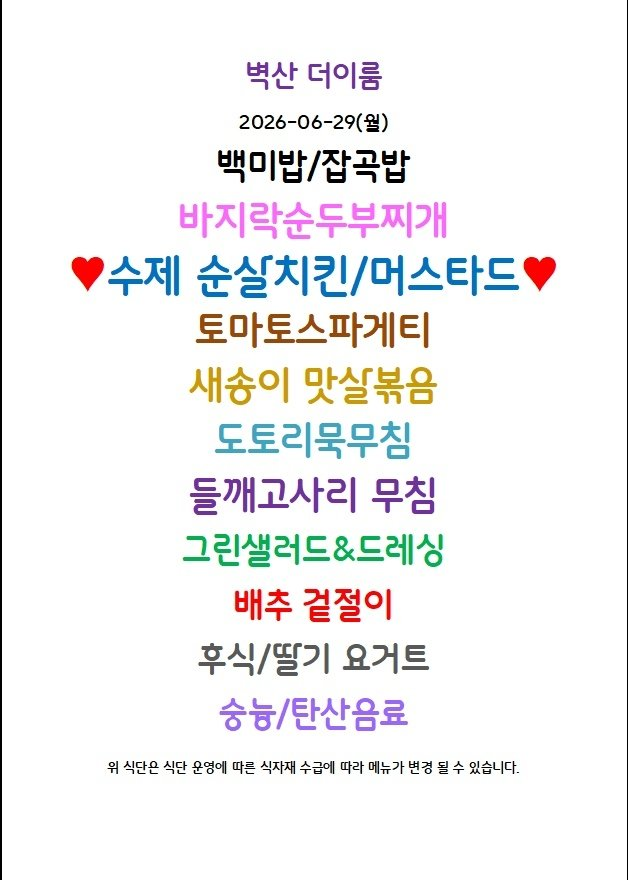
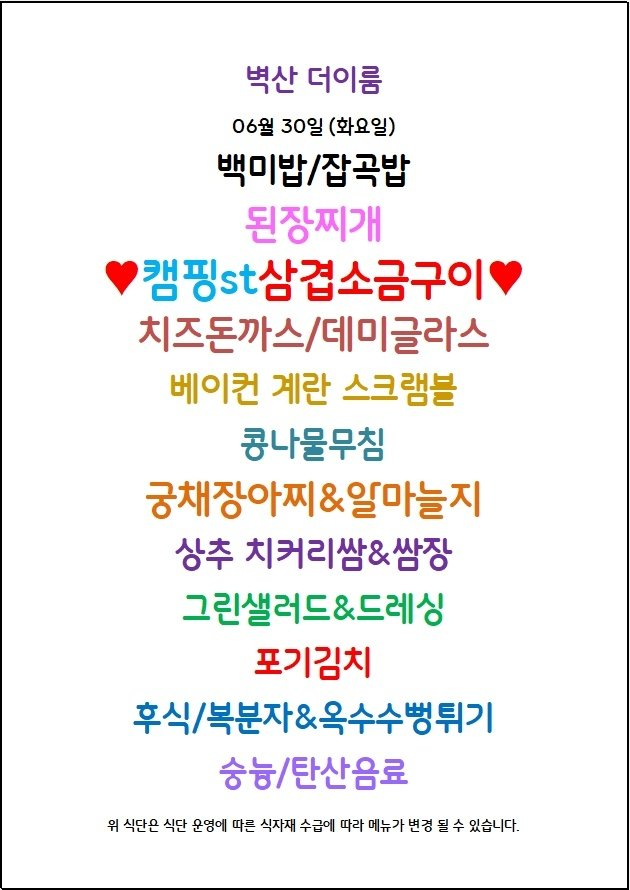
Update menu board assets

Changed region(s): [[0.0908, 0.0614, 0.9076, 0.8898], [0.0, 0.0, 1.0, 1.0], [0.1513, 0.9205, 0.8169, 0.9511]]

diff --git a/guro-menu/index.html b/guro-menu/index.html
@@ -32,7 +32,7 @@
   </header>
   <section class="meta">
     <div><small>기준 날짜</small><strong>2026년 6월 30일 화요일</strong></div>
-    <div><small>최종 갱신</small><strong>2026-06-30 09:03:33</strong></div>
+    <div><small>최종 갱신</small><strong>2026-06-30 09:13:29</strong></div>
     <div><small>등록 식당</small><strong>5개</strong></div>
   </section>
   <div class="notice">공개 카카오 채널의 메뉴 이미지를 자동 수집하고 OCR로 정리합니다. 텍스트에 오타가 있을 수 있으니 식단 이미지를 함께 확인해 주세요.</div>
@@ -89,8 +89,8 @@
           <a class="channel" href="https://pf.kakao.com/_xdLzxgG" target="_blank" rel="noopener">원본 채널</a>
         </div>
         <img class="menu-image" src="./images/byucksan-theirum.png" alt="벽산더이룸 식단 이미지" loading="lazy">
-        <p class="message">최신 공개 식단 이미지의 텍스트입니다. 날짜는 원본 이미지를 확인해 주세요.</p>
-        <ul><li>2026-06-29(월)</li><li>백미밥/잡곡밥</li><li>바지락순두부찌개</li><li>수제 순실지킨/머스타드</li><li>토마토스파게티</li><li>새송이 맛실볶음</li><li>도토리묵무침</li><li>들깨고사리 무침</li><li>그린샐러드&amp;드레싱</li><li>배추 겉절이</li><li>후식/떨기 요거트</li><li>숭늉/탄산음료</li></ul>
+        
+        <ul><li>백미밥/잡곡밥</li><li>된장찌개</li><li>$캠핑6+삼겹소금구이?</li><li>치즈돈까스/데미글라스</li><li>베이컨 계란</li><li>콩나물무침</li><li>궁채장아찌&amp;(일마늘지</li><li>상추 치커리쌈&amp;쌈장</li><li>그린샐러드&amp;드레싱</li><li>포기김치</li><li>후식/복분자&amp;옥수수뱅튀기</li><li>숭늉/탄산음료</li></ul>
       </article>
 
       <article class="restaurant-card">

diff --git a/menu-today/index.html b/menu-today/index.html
@@ -209,7 +209,7 @@
 
     <section class="meta-bar">
       <div class="meta-card"><div class="meta-label">기준 날짜</div><div class="meta-value">2026년 6월 30일 화요일</div></div>
-      <div class="meta-card"><div class="meta-label">최종 가져온 시간</div><div class="meta-value">2026-06-30 09:03:22</div></div>
+      <div class="meta-card"><div class="meta-label">최종 가져온 시간</div><div class="meta-value">2026-06-30 09:13:14</div></div>
       <div class="meta-card"><div class="meta-label">확인 완료</div><div class="meta-value">9개 식당</div></div>
       <div class="meta-card"><div class="meta-label">준비중</div><div class="meta-value">3개 채널</div></div>
     </section>
@@ -295,7 +295,7 @@
             <div class="sub">에이스테크노타워10차</div>
           </div>
         </div>
-        <div class="menu-inline-image"><img src="./images/thefoodsketch.png" alt="더푸드스케치 식단 이미지"></div><ul><li>얼큰계란탕</li><li>차돌숙주볶음</li><li>길비실까스</li><li>소세지전</li><li>이틸리안토마토파스타</li><li>= 꾼제오리냉채</li><li>감자조림</li><li>Ww 아삭이무침</li><li>가든샐러드 &amp; 드레싱</li><li>배추겉절이 / 음료</li></ul>
+        <div class="menu-inline-image"><img src="./images/thefoodsketch.png" alt="더푸드스케치 식단 이미지"></div><ul><li>얼큰계란탕</li><li>차돌숙주볶음</li><li>길비실까스</li><li>소세지전</li><li>이틸리안토마토파스타</li><li>= 꾼제오리냉채</li><li>감자조림</li><li>Ww 아삭이무침</li><li>가든샐러드 / 드레싱</li><li>배추겉절이 / 음료</li></ul>
       </article>
 
       <article class="restaurant-card">
